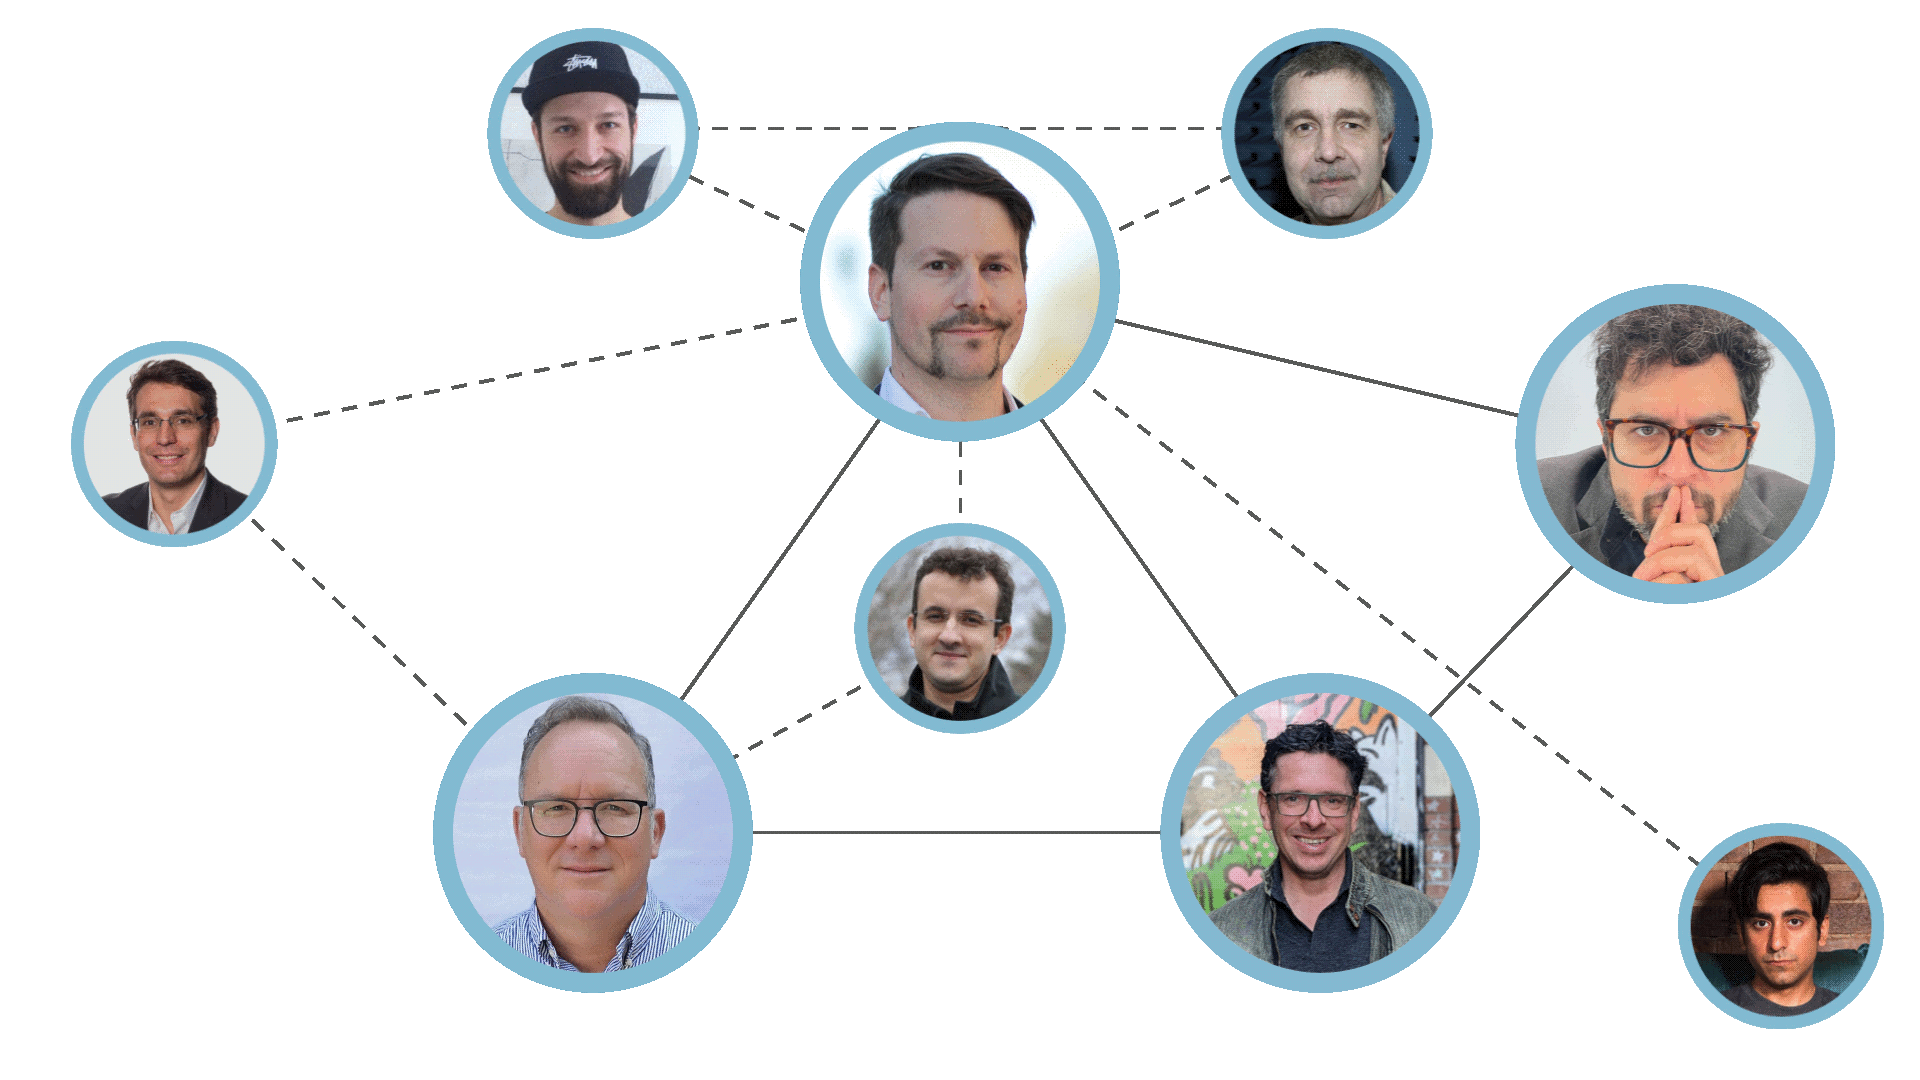
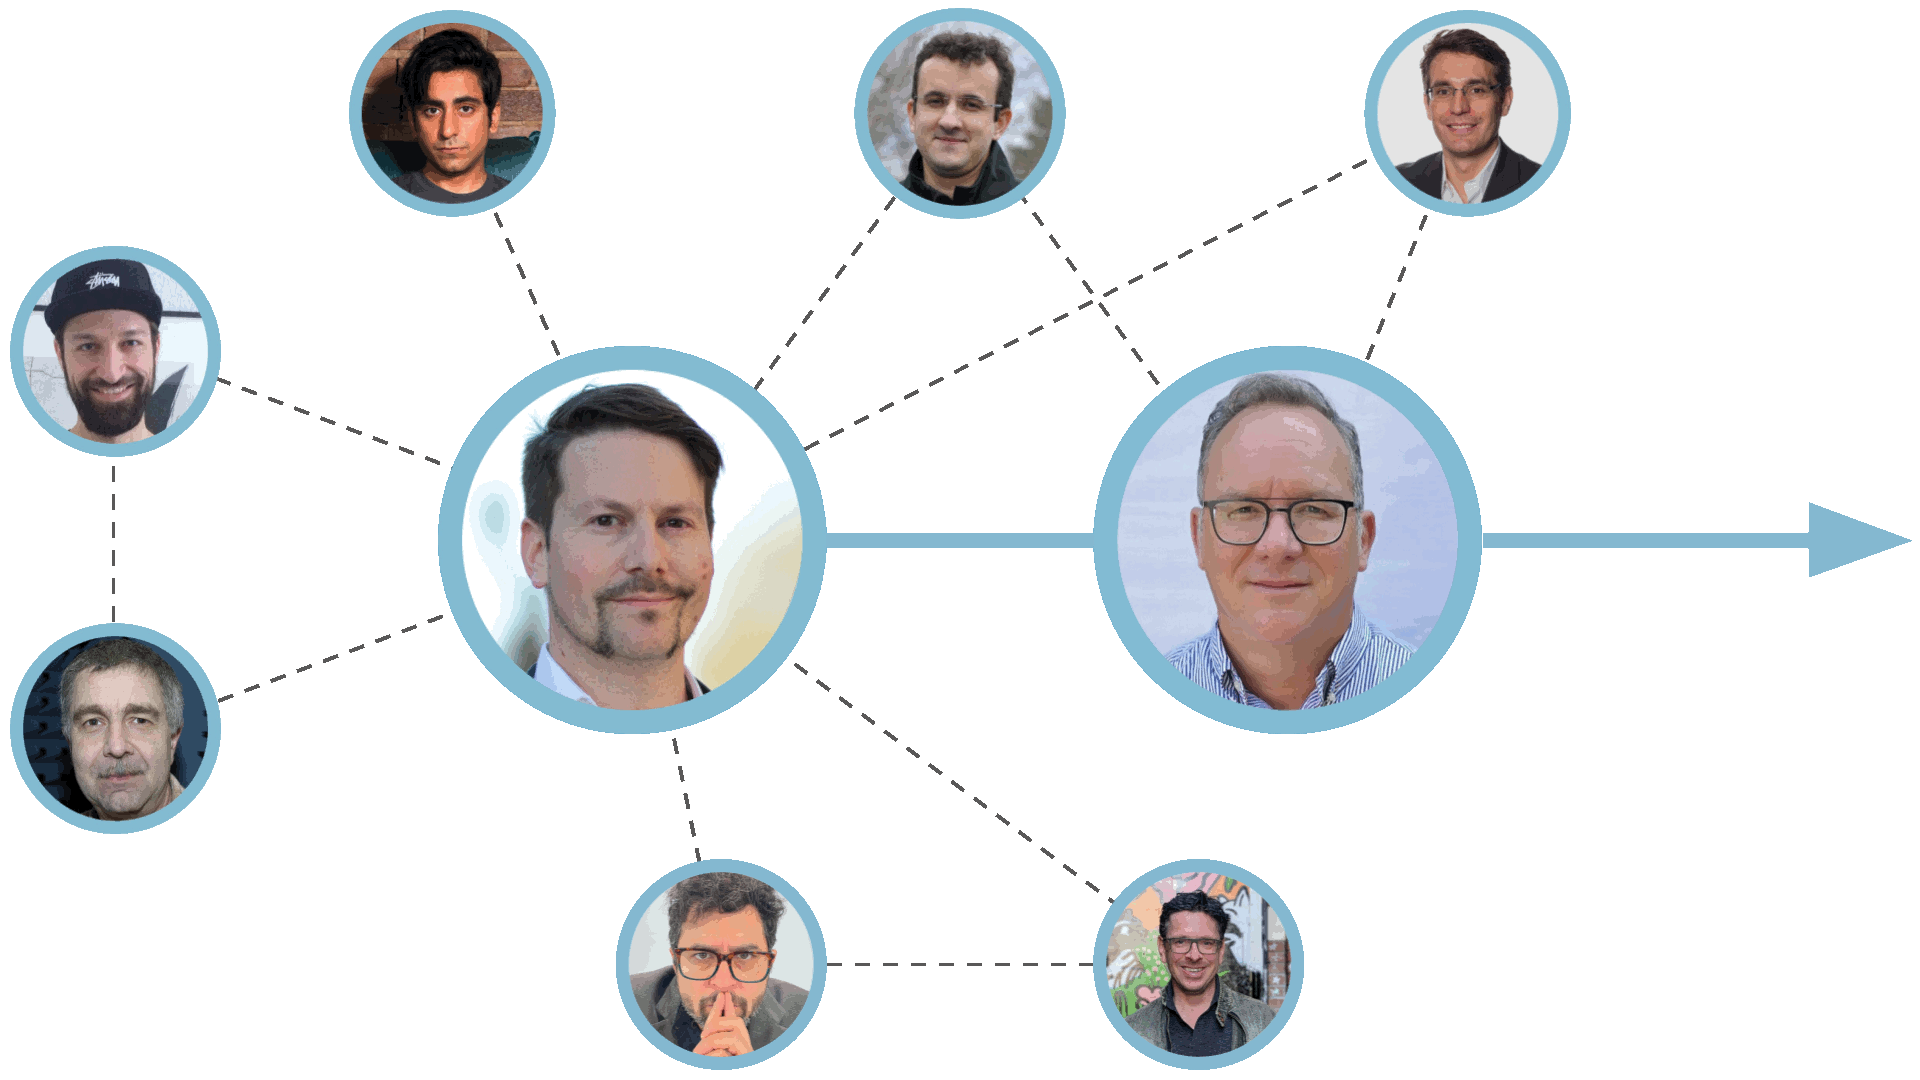
Updated team

diff --git a/team/index.html b/team/index.html
@@ -757,19 +757,6 @@
               </div>
             </div>
             <div class="card text-center hover-shadow">
-              <img src="../team/don/images/bubble.jpg"
-                   class="card-img-top bg-white p-2" alt="Don's bubble">
-              <h5 class="card-header bg-dark text-light">
-                Don
-              </h5>
-              <div class="card-body">
-                <p class="card-text"> Developer </p>
-              </div>
-              <div class="card-footer text-end">
-                <small class="text-muted"> <i class="fas fa-history"></i> 2023-present </small>
-              </div>
-            </div>
-            <div class="card text-center hover-shadow">
               <img src="../team/james/images/bubble.jpg"
                    class="card-img-top bg-white p-2" alt="James' bubble">
               <h5 class="card-header bg-dark text-light">
@@ -779,7 +766,20 @@
                 <p class="card-text"> Developer </p>
               </div>
               <div class="card-footer text-end">
-                <small class="text-muted"> <i class="fas fa-history"></i> 2024-present </small>
+                <small class="text-muted"> <i class="fas fa-history"></i> 2024-2025 </small>
+              </div>
+            </div>
+            <div class="card text-center hover-shadow">
+              <img src="../team/don/images/bubble.jpg"
+                   class="card-img-top bg-white p-2" alt="Don's bubble">
+              <h5 class="card-header bg-dark text-light">
+                Don
+              </h5>
+              <div class="card-body">
+                <p class="card-text"> Developer </p>
+              </div>
+              <div class="card-footer text-end">
+                <small class="text-muted"> <i class="fas fa-history"></i> 2023-2024 </small>
               </div>
             </div>
           </div>
